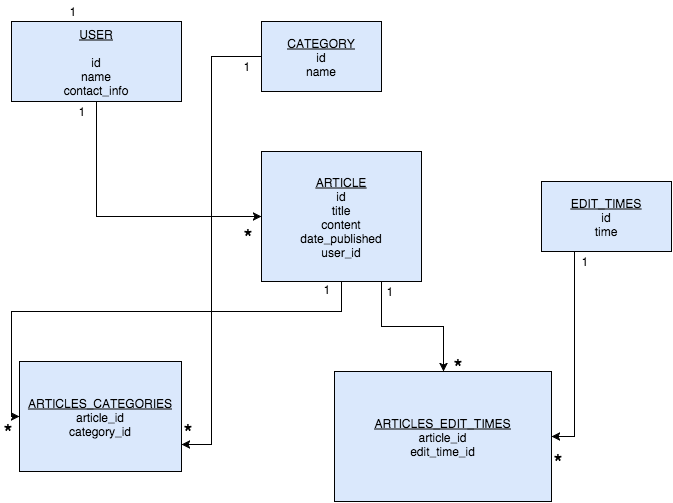
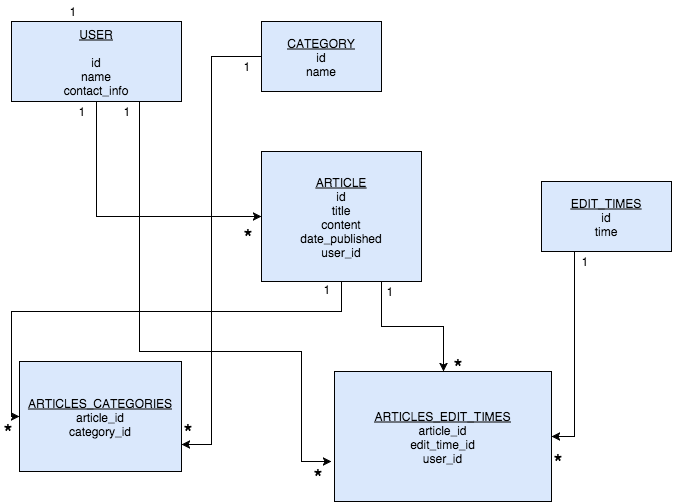
established associations with most tables.  Still have issues with article_edit_tiems table

Changed region(s): [[0.5305, 0.8052, 0.7801, 0.9245], [0.4681, 0.8946, 0.4993, 0.9543], [0.1872, 0.2087, 0.2184, 0.2386]]

diff --git a/db/seeds.rb b/db/seeds.rb
@@ -1,0 +1,36 @@
+require_relative'config'
+
+users =[
+{f_name: 'Meredith', l_name: 'Salguero', address: '22-62 33rd Street', city: 'Astoria', state: 'NY', zip: 11105},
+{f_name: 'Chris', l_name: 'Johnson', address: '420 Imaginary Lane', city: 'New York', state: 'NY', zip: 10003}
+]
+
+User.create(users)
+
+articles = [
+{title: "Veggies", date_published: DateTime.new(2015,12,01,8,37), content: "Veggies are soo Yummy", user_id: 1}
+]
+
+Article.create(articles)
+
+categories = [
+{name: 'Vegetables'}
+]
+
+Category.create(categories)
+
+edit_times = [
+{time: DateTime.new(2015,12,01,8,50)}
+]
+
+EditTime.create(edit_times)
+
+article_edit_times =[
+{article_id: 1, edit_time_id: 1, user_id: 2}
+]
+
+ArticleEditTime.create(article_edit_times)
+
+a1=Article.find(1)
+c1=Category.find(1)
+a1.categories.push(c1)

diff --git a/db/config.rb b/db/config.rb
@@ -1,0 +1,10 @@
+require"active_record"
+
+ActiveRecord::Base.establish_connection(
+	:adapter => 'sqlite3',
+	:database => 'db/database.sqlite3'
+	)
+
+	Dir.glob("models/*.rb").each do |path|
+		require_relative "../#{path}"
+	end

diff --git a/server.rb b/server.rb
@@ -1,0 +1,12 @@
+module App
+	class Server <Sinatra::Base
+
+		get ("/") do
+		"Hello World"
+		end
+
+		get ("/articles") do
+			@articles=Article.all
+		end
+	end
+end

diff --git a/models/article.rb b/models/article.rb
@@ -1,0 +1,5 @@
+class Article <ActiveRecord::Base
+	belongs_to :user
+	has_many :users, through: :article_edit_times
+	has_and_belongs_to_many :categories
+end

diff --git a/models/article_edit_time.rb b/models/article_edit_time.rb
@@ -1,0 +1,5 @@
+class ArticleEditTime <ActiveRecord::Base
+	belongs_to :article
+	belongs_to :edit_time
+	belongs_to :user
+end

diff --git a/models/user.rb b/models/user.rb
@@ -1,0 +1,4 @@
+class User <ActiveRecord::Base
+	has_many :articles
+	has_many :edit_times, through: :article_edit_times
+end

diff --git a/models/edit_time.rb b/models/edit_time.rb
@@ -1,0 +1,3 @@
+class EditTime <ActiveRecord::Base
+	has_many :articles, through: :article_edit_times
+end

diff --git a/models/category.rb b/models/category.rb
@@ -1,0 +1,3 @@
+class Category <ActiveRecord::Base
+	has_and_belongs_to_many :articles
+end
